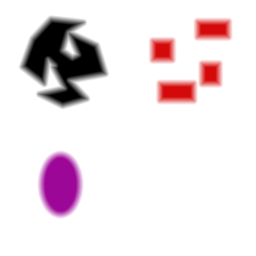
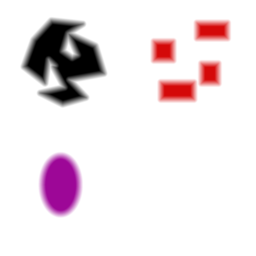
Give user control over kernel properties

diff --git a/pysdfer.py b/pysdfer.py
@@ -87,7 +87,9 @@ def make_path(path_in: Path, path_out: Path, inklayers: bool, atlas: bool = Fals
         # args.path_out.mkdir(parents=True, exist_ok=True)
     return path_out
 
-def do_image(image: Image, main_color: Color, under_color: Color = None, out_height: int = 128, keep_aspect: bool = False, padding=50):
+def do_image(image: Image, main_color: Color, under_color: Color = None, out_height: int = 128, keep_aspect: bool = False, kernel_size=10, kernel_scale=100):
+
+    padding = int(kernel_size*6/(kernel_scale/100))
 
     image_ar = image.width/image.height
 
@@ -120,13 +122,13 @@ def do_image(image: Image, main_color: Color, under_color: Color = None, out_hei
 
     outer = image.clone()
     #outer.resize(ceil(outer.width*4), ceil(outer.height*4))
-    outer.morphology(method="distance", kernel='euclidean', iterations=3)
+    outer.morphology(method="distance", kernel=f'euclidean:{kernel_size},{kernel_scale}', iterations=1)
     #outer.auto_level()
     #outer.level(.0, 1.5)
 
     inner = image.clone()
     inner.negate()
-    inner.morphology(method="distance", kernel='euclidean', iterations=2)
+    inner.morphology(method="distance", kernel=f'euclidean:{kernel_size},{kernel_scale}', iterations=1)
     inner.level(.50, -.50)
 
     outer.compose = 'plus'
@@ -272,7 +274,7 @@ def xmlstr_to_sdf(a):
     pngtmp = convert_svg_layer_to_png(a['layer'])
     print("returned png tmp: ", pngtmp)
     img = Image(filename=pngtmp.name, format="png")
-    sdf_img = do_image(img, a['shapecolor'], Color(str(a['color_underlay'])), a['height'], a['keep_aspect'])
+    sdf_img = do_image(img, a['shapecolor'], Color(str(a['color_underlay'])), a['height'], a['keep_aspect'], kernel_size=a['kernel_size'], kernel_scale=a['kernel_scale'])
     path: Path = a['save_root'] / f"{a['label'] or 'image'}.csdf.png"
     print("the save_root is ", a['save_root'])
     print('and path is ', path)
@@ -323,6 +325,8 @@ def handle_inklayers(filepath: Path, args, blob_at_end, is_in_process):
                 'height': args.height,
                 'keep_aspect': args.keep_aspect,
                 'save_root': save_root,
+                'kernel_size': args.kernel_size,
+                'kernel_scale': args.kernel_scale
                 }            
             layers_xml.append(layer_data)
             #img = Image(blob=bytes(layer.toxml(), 'utf-8'))
@@ -362,7 +366,7 @@ def handle_file(filepath: Path, args, blob_at_end = False, is_in_process = False
     else:
         # Process the image
         print('get the img')
-        img = do_image(Image(filename=filepath), args.main_color, args.color_underlay, args.height, args.keep_aspect)
+        img = do_image(Image(filename=filepath), args.main_color, args.color_underlay, args.height, args.keep_aspect, kernel_size=args.kernel_size, kernel_scale=args.kernel_scale)
         print('get the path')
         path = make_path(filepath, args.path_out, False)
         print('path made is ', path)
@@ -448,6 +452,14 @@ inkscape document, rather then one that includes all of the images in the folder
     parser.add_argument(
         '--keep-aspect', action="store_true", help=
 """Normally, the script coerces the output into a square. This makes the script not do that."""
+    )
+    parser.add_argument(
+        '--kernel-size', type=int, required=False, default=15, help=
+"""The size of the kernel that searches for distance from the edge."""
+    )
+    parser.add_argument(
+        '--kernel-scale', type=int, required=False, default=100, help=
+"""The amount that the image is scaled up or down while applying the kernel."""
     )
 
     args = parser.parse_args()
